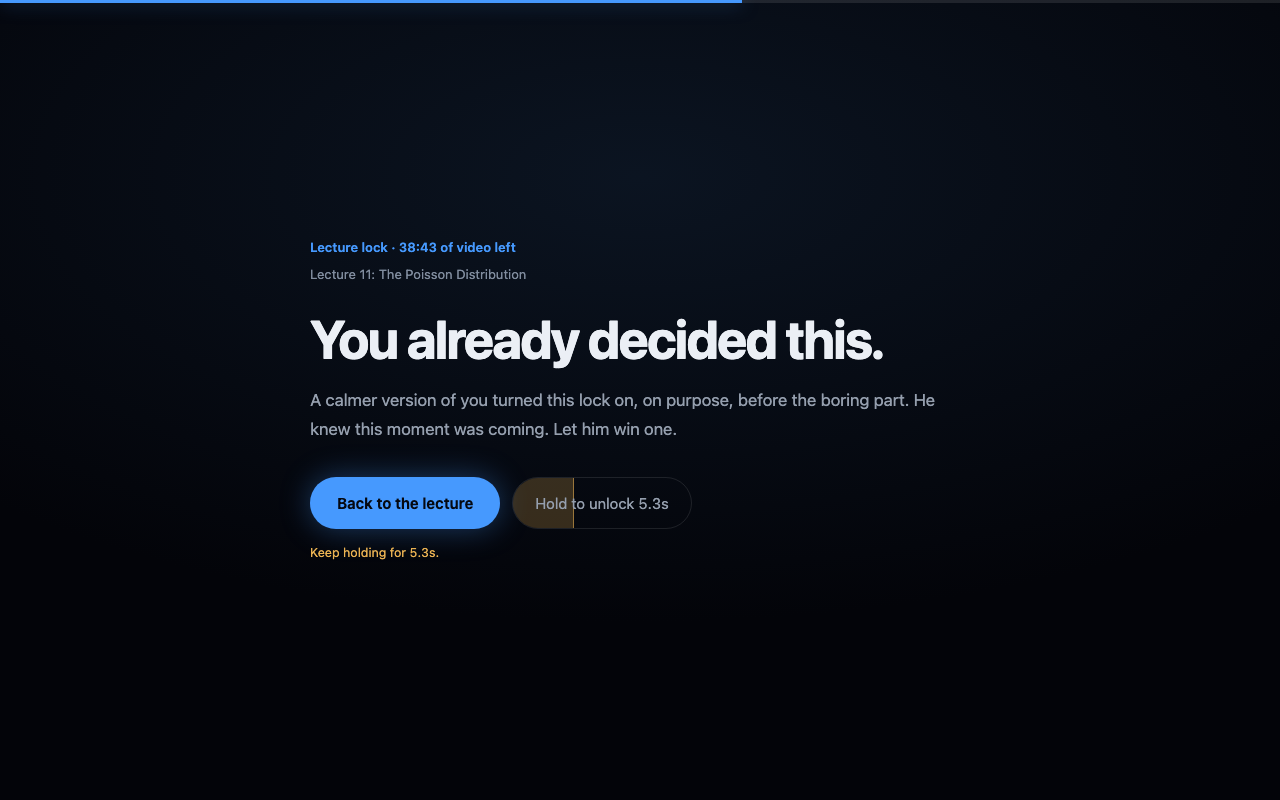
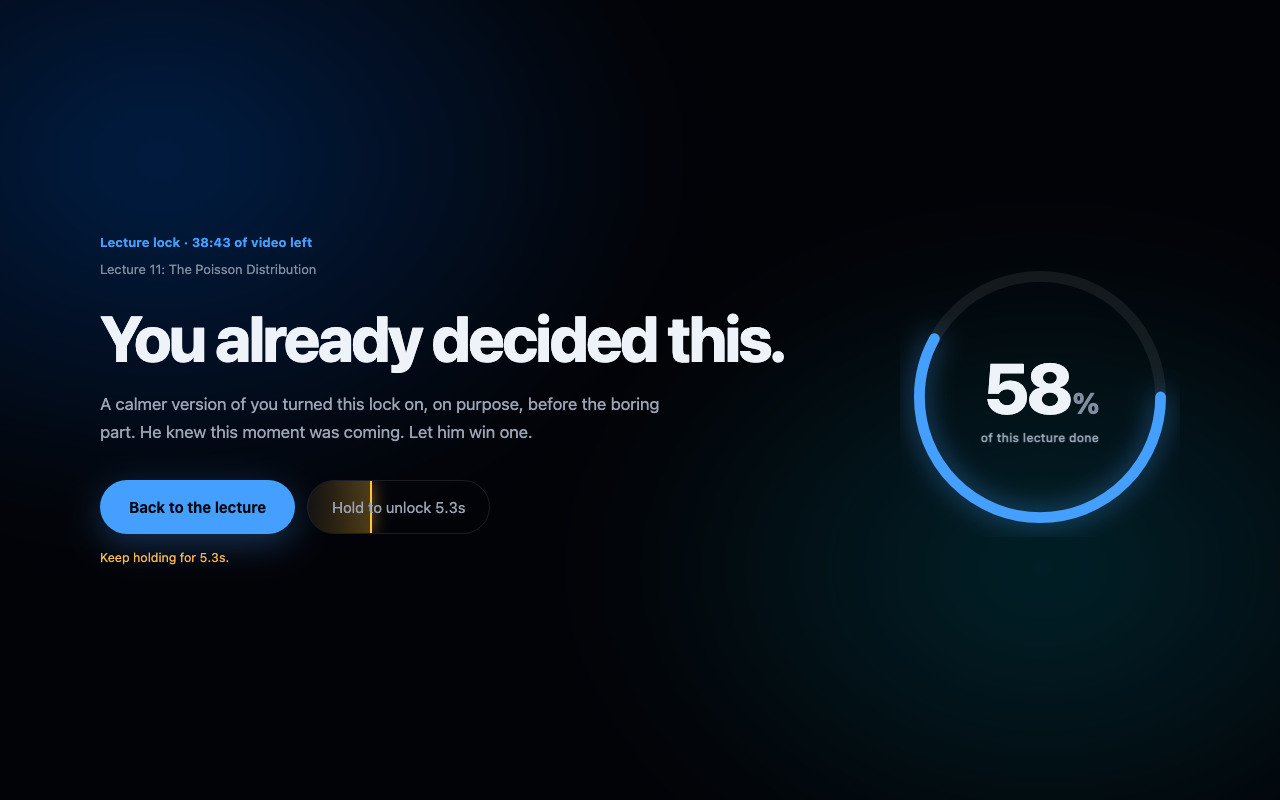
Redesign the wall around what you have already done
The old screen stated the persuasive fact and left it at that. It now shows it:
a large gauge draws itself on entry, from empty to however far into the lecture
you already are, with the percentage counting up alongside on the same easing so
the ring and the number read as one object. Watching it fill is the argument.

Everything else follows from making room for that. Two columns, the argument on
one side and the proof on the other. The headline is bigger and tighter. The
elements arrive in sequence rather than at once, so the screen assembles instead
of appearing. A single slow-drifting field of light sits behind it, one shape at
low chroma over a forty-six second cycle, which reads as alive rather than busy.

The unlock fill was a muddy brown, because amber at low alpha over near-black
desaturates. A brighter stop and a real leading edge keeps it reading as amber
and as motion.

Contrast measured off the rendered pixels against the aurora at its brightest,
which is the hardest case rather than the flat background. Everything clears:
the headline at 16.0, the body at 8.5, the accent at 6.2.

Reduced motion skips the drift, the stagger, the arc draw and the count.

Changed region(s): [[0.0, 0.0, 1.0, 0.8125]]

diff --git a/extension/src/lock.css b/extension/src/lock.css
@@ -3,71 +3,77 @@
 /* ============================================================================
    The wall.
 
-   Type-led and deliberately close to monochrome. This screen appears at a
-   moment of impulse, so anything decorative competes with the one job it has,
-   which is to be read. The only non-text element earns its place: the rail at
-   the top is how far through the lecture you already are, which is the most
-   persuasive fact available and reads faster as a bar than as a sentence.
+   Two things share the screen: the argument, and the proof. The gauge is not
+   decoration, it is the most persuasive fact available made large, and it draws
+   itself on entry so you watch it fill to where you already are.
    ========================================================================= */
 
 #latch-wall {
   position: fixed;
   inset: 0;
   z-index: 2147483647;
-  --ink: oklch(95% 0.01 260);
-  --muted: oklch(70% 0.025 260);
+  --ink: oklch(96% 0.01 260);
+  --muted: oklch(72% 0.025 260);
   --dim: oklch(64% 0.03 258);
   --line: oklch(100% 0 0 / 0.10);
-  --accent: oklch(68% 0.17 255);
-  --amber: oklch(80% 0.13 78);
+  --accent: oklch(70% 0.18 255);
+  --accent-2: oklch(74% 0.16 200);
+  --amber: oklch(82% 0.14 78);
   color: var(--ink);
-  /* Base plus one soft pool of light above centre. Depth without glass. */
-  background:
-    radial-gradient(120% 90% at 50% 22%, oklch(19% 0.03 258), transparent 62%),
-    oklch(11% 0.015 260);
+  background: oklch(10% 0.015 262);
   display: flex;
   align-items: center;
   justify-content: center;
   font: 15px/1.6 -apple-system, BlinkMacSystemFont, "Segoe UI", Roboto, sans-serif;
-  overflow-y: auto;
+  overflow: hidden;
 }
 
-/* how far into the lecture you already are */
-#latch-wall .latch-rail {
+/* Slow drifting light. Alive rather than busy: one shape, one minute per cycle,
+   low chroma, far behind everything. */
+#latch-wall .latch-aurora {
   position: absolute;
-  top: 0;
-  left: 0;
-  right: 0;
-  height: 3px;
-  background: var(--line);
+  inset: -25%;
+  pointer-events: none;
+  background:
+    radial-gradient(38% 44% at 28% 32%, oklch(42% 0.16 258 / 0.40), transparent 70%),
+    radial-gradient(34% 40% at 74% 66%, oklch(44% 0.13 205 / 0.32), transparent 70%);
+  filter: blur(46px);
+  animation: latch-drift 46s ease-in-out infinite alternate;
 }
-#latch-wall .latch-rail-fill {
-  display: block;
-  height: 100%;
-  width: 0;
-  background: var(--accent);
-  box-shadow: 0 0 18px oklch(68% 0.17 255 / 0.55);
+@keyframes latch-drift {
+  from { transform: translate3d(-3%, -2%, 0) scale(1); }
+  to   { transform: translate3d(4%, 3%, 0) scale(1.12); }
 }
 
-#latch-wall .latch-inner {
-  width: min(660px, calc(100vw - 64px));
-  padding: 48px 0;
-  opacity: 0;
-  transform: translateY(14px);
-  transition: opacity 0.32s cubic-bezier(0.16, 1, 0.3, 1),
-              transform 0.32s cubic-bezier(0.16, 1, 0.3, 1);
+#latch-wall .latch-stage {
+  position: relative;
+  width: min(1080px, calc(100vw - 80px));
+  display: grid;
+  grid-template-columns: minmax(0, 1fr) auto;
+  align-items: center;
+  gap: clamp(32px, 6vw, 88px);
 }
-#latch-wall.is-in .latch-inner { opacity: 1; transform: none; }
+
+/* every child rises in sequence, so the screen assembles instead of appearing */
+#latch-wall .latch-stage > * > *,
+#latch-wall .latch-gauge {
+  opacity: 0;
+  transform: translateY(16px);
+  transition: opacity 0.5s cubic-bezier(0.16, 1, 0.3, 1) var(--d, 0ms),
+              transform 0.5s cubic-bezier(0.16, 1, 0.3, 1) var(--d, 0ms);
+}
+#latch-wall.is-in .latch-stage > * > *,
+#latch-wall.is-in .latch-gauge { opacity: 1; transform: none; }
 
 #latch-wall .latch-meta {
   margin: 0 0 6px;
   font-size: 13px;
-  font-weight: 600;
+  font-weight: 650;
+  letter-spacing: 0.01em;
   color: var(--accent);
   font-variant-numeric: tabular-nums;
 }
 
-/* the specific thing you are walking out of */
 #latch-wall .latch-title {
   margin: 0 0 26px;
   font-size: 13px;
@@ -79,56 +85,52 @@
 
 #latch-wall .latch-head {
   margin: 0 0 18px;
-  font-size: clamp(2rem, 5.2vw, 3.35rem);
-  line-height: 1.08;
-  letter-spacing: -0.03em;
-  font-weight: 700;
+  font-size: clamp(2.4rem, 5.4vw, 4rem);
+  line-height: 1.03;
+  letter-spacing: -0.035em;
+  font-weight: 760;
   text-wrap: balance;
 }
 
 #latch-wall .latch-body {
   margin: 0 0 34px;
-  max-width: 60ch;
+  max-width: 54ch;
   font-size: 1.0625rem;
-  line-height: 1.68;
+  line-height: 1.66;
   color: var(--muted);
   text-wrap: pretty;
 }
 
-#latch-wall .latch-actions {
-  display: flex;
-  gap: 12px;
-  align-items: center;
-  flex-wrap: wrap;
-}
+#latch-wall .latch-actions { display: flex; gap: 12px; align-items: center; flex-wrap: wrap; }
 
 #latch-wall button {
   font: inherit;
   border-radius: 999px;
   cursor: pointer;
   border: 1px solid transparent;
-  transition: background 0.18s ease, border-color 0.18s ease,
-              color 0.18s ease, transform 0.18s cubic-bezier(0.16, 1, 0.3, 1);
+  transition: background 0.18s ease, border-color 0.18s ease, color 0.18s ease,
+              box-shadow 0.22s ease, transform 0.18s cubic-bezier(0.16, 1, 0.3, 1);
 }
 
 #latch-wall .latch-back {
   background: var(--accent);
-  color: oklch(14% 0.02 260);
-  font-weight: 650;
-  padding: 13px 26px;
-  box-shadow: 0 0 30px oklch(68% 0.17 255 / 0.35);
+  color: oklch(13% 0.02 262);
+  font-weight: 680;
+  padding: 14px 28px;
+  box-shadow: 0 0 0 0 oklch(70% 0.18 255 / 0.5), 0 10px 34px oklch(70% 0.18 255 / 0.28);
 }
-#latch-wall .latch-back:hover { transform: translateY(-1px); }
+#latch-wall .latch-back:hover {
+  transform: translateY(-2px);
+  box-shadow: 0 0 0 6px oklch(70% 0.18 255 / 0.14), 0 14px 40px oklch(70% 0.18 255 / 0.36);
+}
 
-/* The way out is the quieter control, and it fills as you hold it so the cost
-   is visible while you are paying it rather than a number you are told. */
 #latch-wall .latch-out {
   position: relative;
   overflow: hidden;
   background: transparent;
   color: var(--muted);
   border-color: var(--line);
-  padding: 13px 22px;
+  padding: 14px 24px;
   font-variant-numeric: tabular-nums;
 }
 #latch-wall .latch-out:hover { color: var(--ink); border-color: var(--dim); }
@@ -137,27 +139,25 @@
   position: absolute;
   inset: 0 auto 0 0;
   width: 0%;
-  background: oklch(80% 0.13 78 / 0.22);
-  border-right: 1px solid oklch(80% 0.13 78 / 0.55);
+  background: linear-gradient(90deg, oklch(86% 0.16 76 / 0.06), oklch(86% 0.16 76 / 0.30));
+  border-right: 2px solid oklch(88% 0.17 76);
+  box-shadow: 0 0 16px oklch(86% 0.16 76 / 0.45);
   transition: width 0.1s linear;
 }
 
 #latch-wall .latch-phrase {
   margin-top: 18px;
   width: 100%;
-  max-width: 460px;
+  max-width: 440px;
   display: block;
   padding: 12px 14px;
   border-radius: 10px;
   border: 1px solid var(--line);
-  background: oklch(16% 0.02 260);
+  background: oklch(15% 0.02 262);
   color: var(--ink);
   font: 13px/1.4 ui-monospace, SFMono-Regular, Menlo, monospace;
 }
-#latch-wall .latch-phrase:focus {
-  outline: none;
-  border-color: var(--accent);
-}
+#latch-wall .latch-phrase:focus { outline: none; border-color: var(--accent); }
 
 #latch-wall .latch-hint {
   margin: 14px 0 0;
@@ -167,16 +167,67 @@
   font-variant-numeric: tabular-nums;
 }
 
-@media (max-width: 640px) {
-  #latch-wall .latch-inner { padding: 32px 0; }
+/* ---- the gauge ---- */
+
+#latch-wall .latch-gauge { position: relative; width: clamp(200px, 24vw, 280px); aspect-ratio: 1; }
+#latch-wall .latch-gauge svg { width: 100%; height: 100%; transform: rotate(-90deg); }
+#latch-wall .latch-track {
+  fill: none;
+  stroke: oklch(100% 0 0 / 0.07);
+  stroke-width: 10;
+}
+#latch-wall .latch-arc {
+  fill: none;
+  stroke: var(--accent);
+  stroke-width: 10;
+  stroke-linecap: round;
+  filter: drop-shadow(0 0 12px oklch(70% 0.18 255 / 0.55));
+  /* drawn on entry, so you watch it reach where you already are */
+  transition: stroke-dashoffset 1.1s cubic-bezier(0.16, 1, 0.3, 1) 0.2s;
+}
+
+#latch-wall .latch-gauge-face {
+  position: absolute;
+  inset: 0;
+  display: flex;
+  flex-direction: column;
+  align-items: center;
+  justify-content: center;
+  gap: 4px;
+}
+#latch-wall .latch-pct {
+  font-size: clamp(3rem, 6vw, 4.4rem);
+  font-weight: 780;
+  letter-spacing: -0.04em;
+  line-height: 1;
+  font-variant-numeric: tabular-nums;
+}
+#latch-wall .latch-pct i { font-style: normal; font-size: 0.42em; color: var(--dim); margin-left: 2px; }
+#latch-wall .latch-gauge-label {
+  font-size: 12px;
+  font-weight: 550;
+  letter-spacing: 0.02em;
+  color: var(--muted);
+  text-align: center;
+}
+
+@media (max-width: 900px) {
+  #latch-wall .latch-stage {
+    grid-template-columns: minmax(0, 1fr);
+    gap: 32px;
+  }
+  #latch-wall .latch-gauge { order: -1; width: 168px; }
+  #latch-wall .latch-body { max-width: none; }
   #latch-wall .latch-actions { flex-direction: column; align-items: stretch; }
   #latch-wall .latch-actions button { width: 100%; }
 }
 
 @media (prefers-reduced-motion: reduce) {
-  #latch-wall .latch-inner { opacity: 1; transform: none; transition: none; }
-  #latch-wall .latch-fill,
-  #latch-wall button { transition: none; }
+  #latch-wall .latch-aurora { animation: none; }
+  #latch-wall .latch-stage > * > *,
+  #latch-wall .latch-gauge { opacity: 1; transform: none; transition: none; }
+  #latch-wall .latch-arc { transition: none; }
+  #latch-wall .latch-fill, #latch-wall button { transition: none; }
   #latch-wall .latch-back:hover { transform: none; }
 }
 

diff --git a/extension/src/lock.js b/extension/src/lock.js
@@ -61,21 +61,33 @@
     const root = document.createElement("div");
     root.id = "latch-wall";
     root.innerHTML = `
-      <div class="latch-rail"><span class="latch-rail-fill"></span></div>
-      <div class="latch-inner">
-        <p class="latch-meta"></p>
-        <p class="latch-title"></p>
-        <h1 class="latch-head"></h1>
-        <p class="latch-body"></p>
-        <div class="latch-actions">
-          <button class="latch-back" type="button">Back to the lecture</button>
-          <button class="latch-out" type="button">
-            <span class="latch-fill"></span>
-            <span class="latch-out-label">Hold to unlock</span>
-          </button>
+      <div class="latch-aurora" aria-hidden="true"></div>
+      <div class="latch-stage">
+        <div class="latch-inner">
+          <p class="latch-meta" style="--d:0ms"></p>
+          <p class="latch-title" style="--d:60ms"></p>
+          <h1 class="latch-head" style="--d:120ms"></h1>
+          <p class="latch-body" style="--d:200ms"></p>
+          <div class="latch-actions" style="--d:280ms">
+            <button class="latch-back" type="button">Back to the lecture</button>
+            <button class="latch-out" type="button">
+              <span class="latch-fill"></span>
+              <span class="latch-out-label">Hold to unlock</span>
+            </button>
+          </div>
+          <input class="latch-phrase" type="text" placeholder="type the phrase" style="--d:340ms" hidden>
+          <p class="latch-hint" style="--d:340ms"></p>
         </div>
-        <input class="latch-phrase" type="text" placeholder="type the phrase" hidden>
-        <p class="latch-hint"></p>
+        <div class="latch-gauge" style="--d:160ms" aria-hidden="true">
+          <svg viewBox="0 0 260 260">
+            <circle class="latch-track" cx="130" cy="130" r="112"></circle>
+            <circle class="latch-arc" cx="130" cy="130" r="112"></circle>
+          </svg>
+          <div class="latch-gauge-face">
+            <span class="latch-pct">0<i>%</i></span>
+            <span class="latch-gauge-label">of this lecture done</span>
+          </div>
+        </div>
       </div>`;
     document.documentElement.appendChild(root);
     keepOnTop(root);
@@ -184,9 +196,20 @@
     // how much of this lecture you have already sat through. A sentence saying
     // "34 minutes in" is an argument; a bar that is two thirds full is a fact.
     const done = watchedFraction();
-    overlay.querySelector(".latch-rail-fill").style.width = `${(done * 100).toFixed(2)}%`;
-    // One frame later so the transition has a start state to animate from.
-    requestAnimationFrame(() => overlay?.classList.add("is-in"));
+    const pct = Math.round(done * 100);
+    const arc = overlay.querySelector(".latch-arc");
+    const CIRC = 2 * Math.PI * 112;
+    arc.style.strokeDasharray = `${CIRC}`;
+    arc.style.strokeDashoffset = `${CIRC}`;   // start empty, then draw to value
+    overlay.querySelector(".latch-pct").innerHTML = `0<i>%</i>`;
+
+    requestAnimationFrame(() => {
+      overlay?.classList.add("is-in");
+      // Drawing the arc rather than snapping it is the point: watching it fill
+      // to where you already are is the argument, and it reads as earned.
+      arc.style.strokeDashoffset = `${CIRC * (1 - done)}`;
+      countUp(overlay.querySelector(".latch-pct"), pct);
+    });
     const phrase = overlay.querySelector(".latch-phrase");
     phrase.hidden = !state.phrase;
     held = 0;
@@ -252,6 +275,25 @@
     // engaged, and this is the one route that is allowed through.
     tell({ type: "release" });
     down();
+  }
+
+  /** Ticks the percentage up to its real value alongside the arc drawing. */
+  function countUp(el, target) {
+    if (target <= 0) { el.innerHTML = `0<i>%</i>`; return; }
+    if (window.matchMedia?.("(prefers-reduced-motion: reduce)")?.matches) {
+      el.innerHTML = `${target}<i>%</i>`;
+      return;
+    }
+    const start = performance.now();
+    const dur = 900;
+    const step = (now) => {
+      const t = Math.min(1, (now - start) / dur);
+      // Same easing as the arc, so the number and the ring move as one thing.
+      const eased = 1 - Math.pow(1 - t, 3);
+      el.innerHTML = `${Math.round(target * eased)}<i>%</i>`;
+      if (t < 1 && overlay) requestAnimationFrame(step);
+    };
+    requestAnimationFrame(step);
   }
 
   /** How far through the lecture you already are, 0 to 1. */
